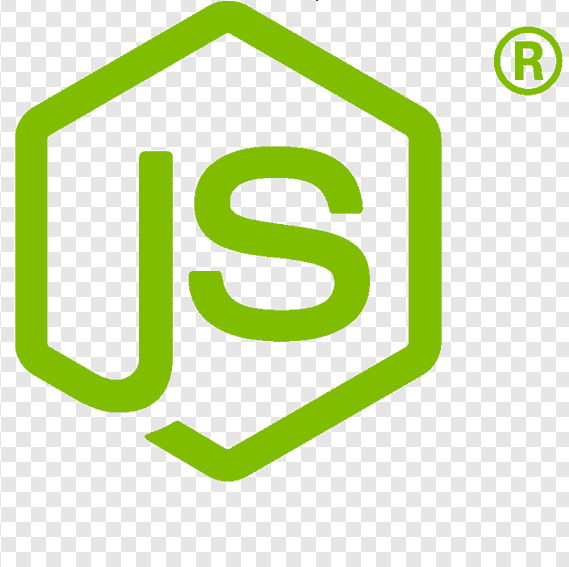
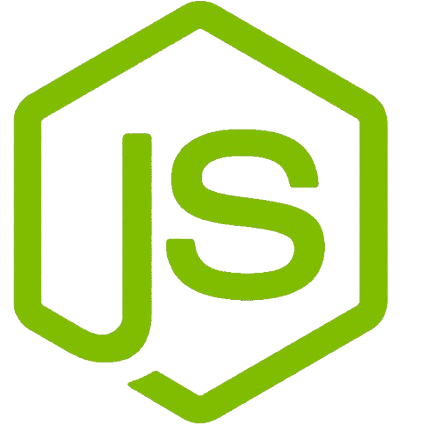
About Images border/ made page section css reusable

diff --git a/src/app/app.component.html b/src/app/app.component.html
@@ -9,15 +9,16 @@
 <app-hero></app-hero>
 <app-about
   [imageList]="[
-    { title: 'C++', imageLink: 'assets/c++.png' },
-    { title: 'CSS', imageLink: 'assets/css.png' },
-    { title: 'ExpressJS', imageLink: 'assets/express.png' },
-    { title: 'Git', imageLink: 'assets/git.png' },
-    { title: 'Godot', imageLink: 'assets/godot.png' },
     { title: 'HTML5', imageLink: 'assets/HTML5.png' },
-    { title: 'Java', imageLink: 'assets/java.png' },
+    { title: 'CSS', imageLink: 'assets/css.png' },
+    { title: 'TypeScript', imageLink: 'assets/ts.png' },
+    { title: 'ExpressJS', imageLink: 'assets/express.png' },
     { title: 'NodeJS', imageLink: 'assets/node.png' },
+    { title: 'C++', imageLink: 'assets/c++.png' },
     { title: 'OpenGL', imageLink: 'assets/opengl.png' },
-    { title: 'TypeScript', imageLink: 'assets/ts.png' }
+    { title: 'Java', imageLink: 'assets/java.png' },
+    { title: 'Godot', imageLink: 'assets/godot.png' },
+    { title: 'Git', imageLink: 'assets/git.png' }
   ]"
 ></app-about>
+<app-projects></app-projects>

diff --git a/src/app/projects/projects.component.spec.ts b/src/app/projects/projects.component.spec.ts
@@ -1,0 +1,23 @@
+import { ComponentFixture, TestBed } from '@angular/core/testing';
+
+import { ProjectsComponent } from './projects.component';
+
+describe('ProjectsComponent', () => {
+  let component: ProjectsComponent;
+  let fixture: ComponentFixture<ProjectsComponent>;
+
+  beforeEach(async () => {
+    await TestBed.configureTestingModule({
+      imports: [ProjectsComponent]
+    })
+    .compileComponents();
+
+    fixture = TestBed.createComponent(ProjectsComponent);
+    component = fixture.componentInstance;
+    fixture.detectChanges();
+  });
+
+  it('should create', () => {
+    expect(component).toBeTruthy();
+  });
+});

diff --git a/src/app/app.component.ts b/src/app/app.component.ts
@@ -3,11 +3,12 @@ import { Component } from '@angular/core';
 import { RouterOutlet } from '@angular/router';
 import { NavbarComponent } from "./navbar/navbar.component";
 import { AboutComponent } from './about/about.component';
+import { ProjectsComponent } from './projects/projects.component';
 
 @Component({
   selector: 'app-root',
   standalone: true,
-  imports: [RouterOutlet, NavbarComponent, HeroComponent, AboutComponent],
+  imports: [RouterOutlet, NavbarComponent, HeroComponent, AboutComponent, ProjectsComponent],
   templateUrl: './app.component.html',
   styleUrl: './app.component.css'
 })

diff --git a/src/app/about/about.component.html b/src/app/about/about.component.html
@@ -1,7 +1,7 @@
-<div id="about-container">
+<div class="page-section" id="about-container">
   <div class="title-font-size">About</div>
   <div id="about-content">
-    <div class="about-content-item">
+    <div class="about-content-item paragraph-font-size" id="about-paragraph">
       Fully committed to the philosophy of life-long learning, I’m a full stack
       developer with a deep passion for JavaScript, React and all things web
       development. The unique combination of creativity, logic, technology and

diff --git a/src/app/about/about.component.css b/src/app/about/about.component.css
@@ -1,12 +1,6 @@
 #about-container{
-    display: flex;
-    flex-direction: column;
-    align-items: center;
     gap: 100px;
-    height: 100vh;
-    margin: 0 100px;
 }
-
 #about-content{
     display: flex;
     justify-content: space-between;
@@ -20,5 +14,10 @@
 #about-images-container{
     display: flex;
     flex-wrap: wrap;
+    justify-content: center;
     gap: 10px;
+}
+
+#about-paragraph{
+    line-height: 1.6;
 }

diff --git a/src/styles.css b/src/styles.css
@@ -17,5 +17,20 @@ html{
     transition: color 0.2s ease-in-out;
 }
 .title-font-size{
-    font-size: 3rem;
+    font-size: 4rem;
+}
+.subtitle-font-size{
+    font-size: 2rem;
+}
+.paragraph-font-size{
+    font-size: 1.2rem;
+}
+
+/* Each section of the page.(home,about,projects...) */
+.page-section{
+    display: flex;
+    flex-direction: column;
+    align-items: center;
+    height: 100vh;
+    margin: 0 150px;
 }

diff --git a/src/app/navbar/navbar.component.css b/src/app/navbar/navbar.component.css
@@ -1,7 +1,7 @@
 #navbar-container{
     /* background-color: rgb(113, 114, 122,0.99); */
     background-color: rgba(63, 63, 66, 0.99);
-    padding: 10px 15px;
+    padding: 10px 80px;
     position: fixed;
     z-index: 1;
     width: 100%;
@@ -11,5 +11,5 @@ ul{
     margin: 0;
     display: flex;
     justify-content: flex-end;
-    gap: 20px;
+    gap: 30px;
 }

diff --git a/src/app/projects/projects.component.ts b/src/app/projects/projects.component.ts
@@ -1,0 +1,12 @@
+import { Component } from '@angular/core';
+
+@Component({
+  selector: 'app-projects',
+  standalone: true,
+  imports: [],
+  templateUrl: './projects.component.html',
+  styleUrl: './projects.component.css'
+})
+export class ProjectsComponent {
+
+}

diff --git a/src/app/about/about-image/about-image.component.css b/src/app/about/about-image/about-image.component.css
@@ -8,7 +8,7 @@ p{
     flex-direction: column;
     align-items: center;
     padding: 5px 20px;
-    border: 2px solid black;
+    /* border: 2px solid red;
+    border-radius: 20px; */
     gap: 5px;
-    max-width: 100px; /* = img width + Lpadding + RPadding  */
 }

diff --git a/src/app/hero/hero.component.html b/src/app/hero/hero.component.html
@@ -1,4 +1,4 @@
-<div id="hero-container">
+<div class="page-section" id="hero-container">
   <div class="title-font-size">Hello, I'm <span>Ryan</span>.</div>
   <div class="title-font-size">
     I'm a programmer and a soon to be CS graduate.

diff --git a/src/app/hero/hero.component.css b/src/app/hero/hero.component.css
@@ -2,9 +2,5 @@ span{
     color: red;
 }
 #hero-container{
-    display: flex;
-    flex-direction: column;
     justify-content: center;
-    align-items: center;
-    height: 100vh;
 }

diff --git a/src/app/about/about-image/about-image.component.html b/src/app/about/about-image/about-image.component.html
@@ -1,4 +1,4 @@
 <div id="image-container">
-  <img src="{{ imageLink }}" width="60" height="60" />
+  <img src="{{ imageLink }}" width="80" height="80" />
   <p>{{ title }}</p>
 </div>
